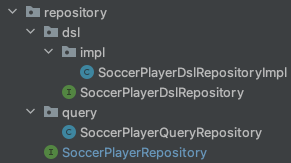
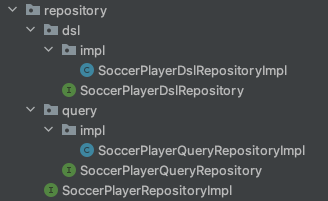
add spring data jpa with querydsl article

Changed region(s): [[0.0619, 0.4908, 0.9588, 0.9816], [0.0, 0.0, 0.9897, 0.4908]]

diff --git a/src/main/java/com/roy/querydsl/repository/dsl/impl/SoccerPlayerDslRepositoryImpl.java b/src/main/java/com/roy/querydsl/repository/dsl/impl/SoccerPlayerDslRepositoryImpl.java
@@ -1,4 +1,138 @@
 package com.roy.querydsl.repository.dsl.impl;
 
-public class SoccerPlayerDslRepositoryImpl {
+import com.querydsl.core.QueryResults;
+import com.querydsl.core.types.Order;
+import com.querydsl.core.types.OrderSpecifier;
+import com.querydsl.core.types.dsl.BooleanExpression;
+import com.querydsl.core.types.dsl.PathBuilder;
+import com.querydsl.jpa.impl.JPAQuery;
+import com.querydsl.jpa.impl.JPAQueryFactory;
+import com.roy.querydsl.domain.QSoccerPlayer;
+import com.roy.querydsl.dto.QSoccerPlayerTeamDTO;
+import com.roy.querydsl.dto.SoccerPlayerSearchDTO;
+import com.roy.querydsl.dto.SoccerPlayerTeamDTO;
+import com.roy.querydsl.repository.dsl.SoccerPlayerDslRepository;
+import org.springframework.data.domain.Page;
+import org.springframework.data.domain.PageImpl;
+import org.springframework.data.domain.Pageable;
+import org.springframework.data.domain.Sort;
+import org.springframework.data.support.PageableExecutionUtils;
+import org.springframework.util.StringUtils;
+
+import javax.persistence.EntityManager;
+import java.util.List;
+import java.util.Objects;
+
+import static com.roy.querydsl.domain.QSoccerPlayer.*;
+import static com.roy.querydsl.domain.QTeam.team;
+
+@SuppressWarnings({"rawtypes", "unchecked"})
+public class SoccerPlayerDslRepositoryImpl implements SoccerPlayerDslRepository {
+
+    private final JPAQueryFactory query;
+
+    public SoccerPlayerDslRepositoryImpl(EntityManager entityManager) {
+        this.query = new JPAQueryFactory(entityManager);
+    }
+
+    @Override
+    public Page<SoccerPlayerTeamDTO> searchSimplePage(SoccerPlayerSearchDTO dto, Pageable pageable) {
+        QueryResults<SoccerPlayerTeamDTO> results = query
+                .select(new QSoccerPlayerTeamDTO(
+                        soccerPlayer.id, soccerPlayer.name,
+                        soccerPlayer.team.id, soccerPlayer.team.name))
+                .from(soccerPlayer)
+                .leftJoin(soccerPlayer.team, team)
+                .where(
+                        playerNameEq(dto.getPlayerName()),
+                        teamNameEq(dto.getTeamName()),
+                        heightGt(dto.getHeightGt()),
+                        weightGt(dto.getWeightGt()))
+                .offset(pageable.getOffset())
+                .limit(pageable.getPageSize())
+                .fetchResults();
+
+        List<SoccerPlayerTeamDTO> content = results.getResults();
+        return new PageImpl<>(content, pageable, results.getTotal());
+    }
+
+    @Override
+    public Page<SoccerPlayerTeamDTO> searchComplexPage(SoccerPlayerSearchDTO dto, Pageable pageable) {
+        List<SoccerPlayerTeamDTO> content = query
+                .select(new QSoccerPlayerTeamDTO(
+                        soccerPlayer.id, soccerPlayer.name,
+                        soccerPlayer.team.id, soccerPlayer.team.name))
+                .from(soccerPlayer)
+                .leftJoin(soccerPlayer.team, team)
+                .where(
+                        playerNameEq(dto.getPlayerName()),
+                        teamNameEq(dto.getTeamName()),
+                        heightGt(dto.getHeightGt()),
+                        weightGt(dto.getWeightGt()))
+                .offset(pageable.getOffset())
+                .limit(pageable.getPageSize())
+                .fetch();
+
+        JPAQuery<Long> countQuery = query
+                .select(soccerPlayer.count())
+                .from(soccerPlayer)
+                .where(
+                        playerNameEq(dto.getPlayerName()),
+                        teamNameEq(dto.getTeamName()),
+                        heightGt(dto.getHeightGt()),
+                        weightGt(dto.getWeightGt()));
+
+        return PageableExecutionUtils.getPage(content, pageable, countQuery::fetchOne);
+    }
+
+    public Page<SoccerPlayerTeamDTO> searchPageWithSort(SoccerPlayerSearchDTO dto, Pageable pageable) {
+        JPAQuery<SoccerPlayerTeamDTO> searchQuery = query
+                .select(new QSoccerPlayerTeamDTO(
+                        soccerPlayer.id, soccerPlayer.name,
+                        soccerPlayer.team.id, soccerPlayer.team.name))
+                .from(soccerPlayer)
+                .leftJoin(soccerPlayer.team, team)
+                .where(
+                        playerNameEq(dto.getPlayerName()),
+                        teamNameEq(dto.getTeamName()),
+                        heightGt(dto.getHeightGt()),
+                        weightGt(dto.getWeightGt()))
+                .offset(pageable.getOffset())
+                .limit(pageable.getPageSize());
+
+        for (Sort.Order o : pageable.getSort()) {
+            PathBuilder pathBuilder = new PathBuilder(soccerPlayer.getType(), soccerPlayer.getMetadata());
+            searchQuery.orderBy(new OrderSpecifier(o.isAscending() ? Order.ASC : Order.DESC, pathBuilder.get(o.getProperty())));
+        }
+
+        List<SoccerPlayerTeamDTO> content = searchQuery.fetch();
+
+        JPAQuery<Long> countQuery = query
+                .select(soccerPlayer.count())
+                .from(soccerPlayer)
+                .where(
+                        playerNameEq(dto.getPlayerName()),
+                        teamNameEq(dto.getTeamName()),
+                        heightGt(dto.getHeightGt()),
+                        weightGt(dto.getWeightGt()));
+
+        return PageableExecutionUtils.getPage(content, pageable, countQuery::fetchOne);
+    }
+
+    private BooleanExpression playerNameEq(String playerName) {
+        return Objects.nonNull(playerName) ? soccerPlayer.name.eq(playerName) : null;
+    }
+
+    private BooleanExpression teamNameEq(String teamName) {
+        return Objects.nonNull(teamName) ? soccerPlayer.team.name.eq(teamName) : null;
+    }
+
+    private BooleanExpression heightGt(Integer height) {
+        return Objects.nonNull(height) ? soccerPlayer.height.gt(height) : null;
+    }
+
+    private BooleanExpression weightGt(Integer weight) {
+        return Objects.nonNull(weight) ? soccerPlayer.weight.gt(weight) : null;
+    }
+
 }

diff --git a/src/main/java/com/roy/querydsl/dto/SoccerPlayerTeamDTO.java b/src/main/java/com/roy/querydsl/dto/SoccerPlayerTeamDTO.java
@@ -1,0 +1,21 @@
+package com.roy.querydsl.dto;
+
+import com.querydsl.core.annotations.QueryProjection;
+import lombok.Data;
+
+@Data
+public class SoccerPlayerTeamDTO {
+    private Long playerId;
+    private String playerName;
+    private Long teamId;
+    private String teamName;
+
+    @QueryProjection
+    public SoccerPlayerTeamDTO(Long playerId, String playerName, Long teamId, String teamName) {
+        this.playerId = playerId;
+        this.playerName = playerName;
+        this.teamId = teamId;
+        this.teamName = teamName;
+    }
+
+}

diff --git a/src/main/java/com/roy/querydsl/repository/dsl/SoccerPlayerDslRepository.java b/src/main/java/com/roy/querydsl/repository/dsl/SoccerPlayerDslRepository.java
@@ -1,4 +1,16 @@
 package com.roy.querydsl.repository.dsl;
 
+import com.roy.querydsl.dto.SoccerPlayerSearchDTO;
+import com.roy.querydsl.dto.SoccerPlayerTeamDTO;
+import org.springframework.data.domain.Page;
+import org.springframework.data.domain.Pageable;
+
+import java.util.List;
+
 public interface SoccerPlayerDslRepository {
+
+    Page<SoccerPlayerTeamDTO> searchSimplePage(SoccerPlayerSearchDTO dto, Pageable pageable);
+
+    Page<SoccerPlayerTeamDTO> searchComplexPage(SoccerPlayerSearchDTO dto, Pageable pageable);
+
 }

diff --git a/src/main/java/com/roy/querydsl/dto/SoccerPlayerSearchDTO.java b/src/main/java/com/roy/querydsl/dto/SoccerPlayerSearchDTO.java
@@ -1,0 +1,11 @@
+package com.roy.querydsl.dto;
+
+import lombok.Data;
+
+@Data
+public class SoccerPlayerSearchDTO {
+    private String playerName;
+    private String teamName;
+    private Integer heightGt;
+    private Integer weightGt;
+}
